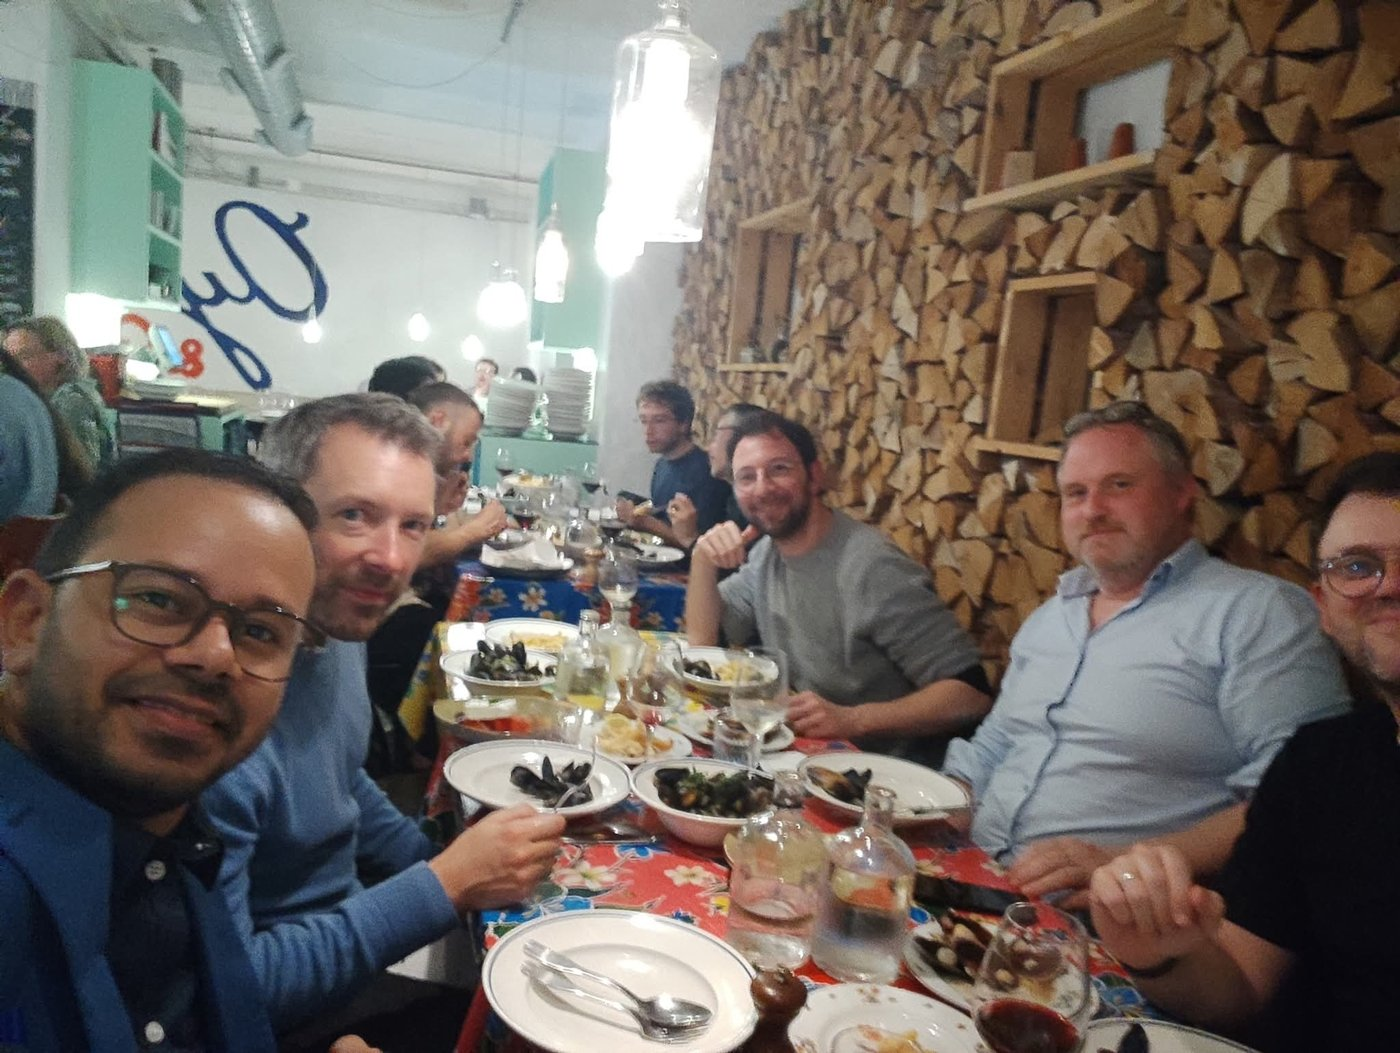
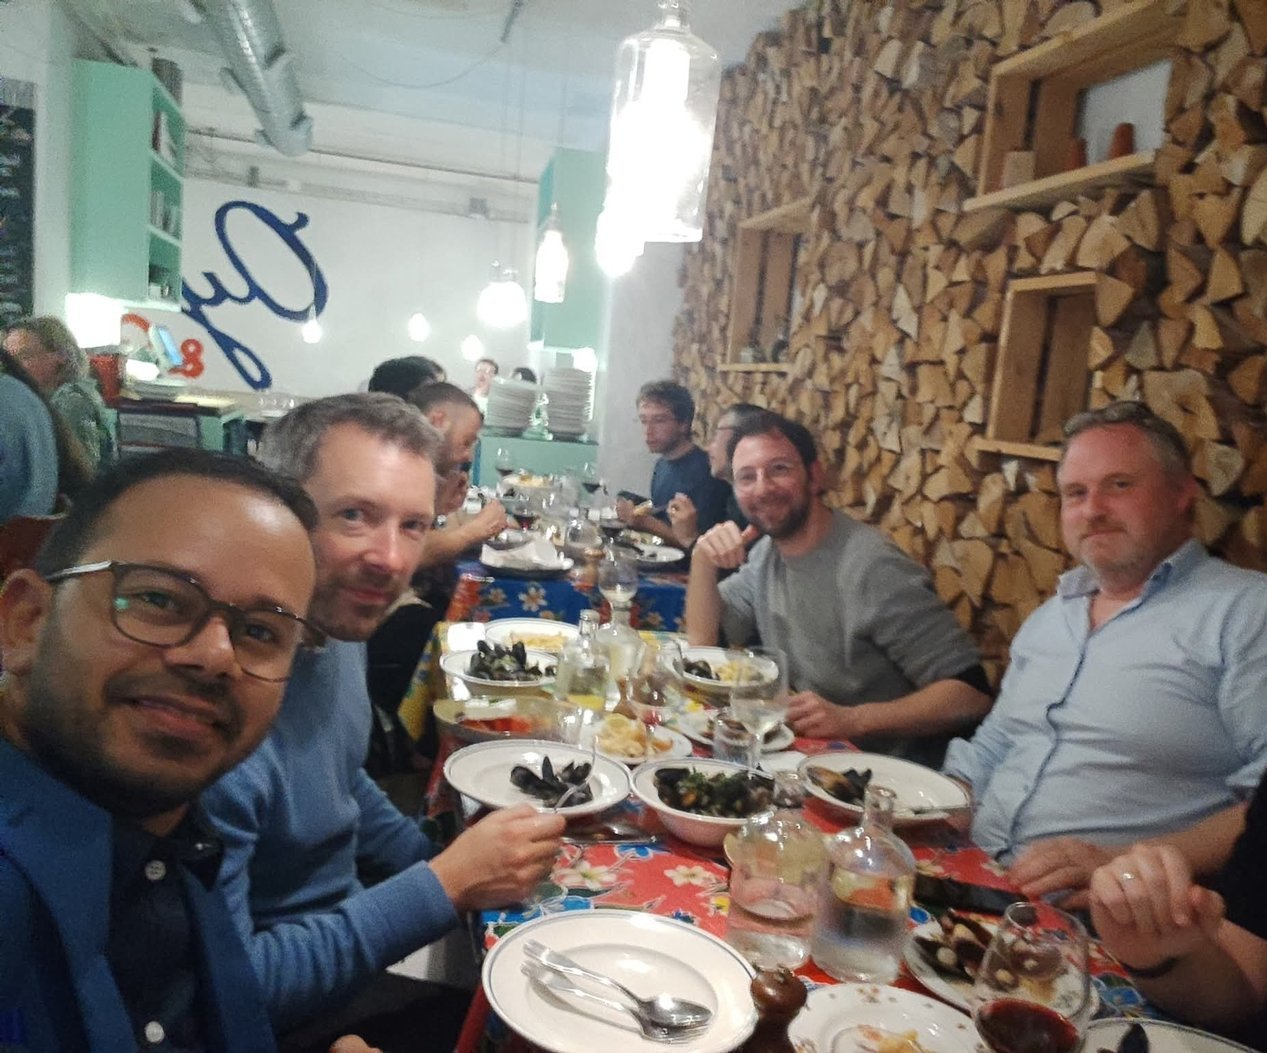
Science heroes: name and crop photo 30
Claude-Session: https://claude.ai/code/session_01E9QX9GPPG8XYDSPDDjxiAw

diff --git a/assets/js/data.js b/assets/js/data.js
@@ -607,7 +607,7 @@ window.SITE = {
     { src: "assets/photos/heroes/hero-32.jpg", name: "Prof. Paul Breedveld", note: "Hamlyn Symposium, London" },
     { src: "assets/photos/heroes/hero-33.jpg", name: "Prof. Jenny Dankelman", note: "" },
     { src: "assets/photos/heroes/hero-34.jpg", name: "Prof. Anton Zeilinger (Nobel Laureate in Physics 2022)", note: "APS March Meeting 2023, Las Vegas" },
-    { src: "assets/photos/heroes/hero-35.jpg", name: "", note: "" },
+    { src: "assets/photos/heroes/hero-35.jpg", name: "Prof. Jérémie Dequidt (Lille)", note: "" },
     { src: "assets/photos/heroes/hero-3.jpg", name: "", note: "" },
     { src: "assets/photos/heroes/hero-2.jpg", name: "ICRA 2026, Vienna", note: "" }
   ],
